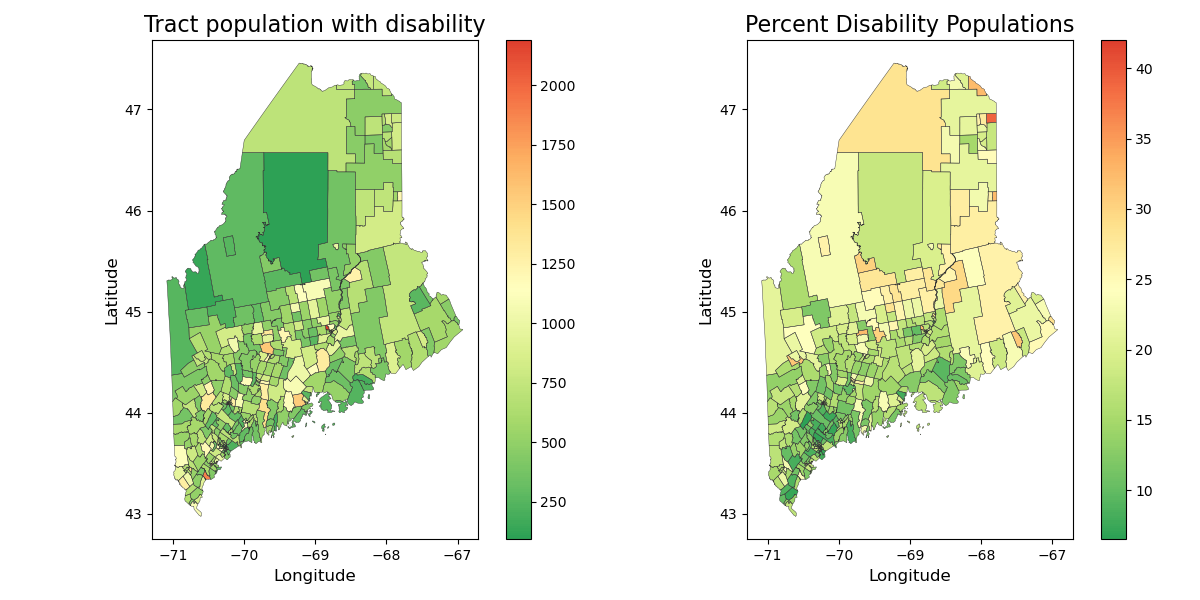
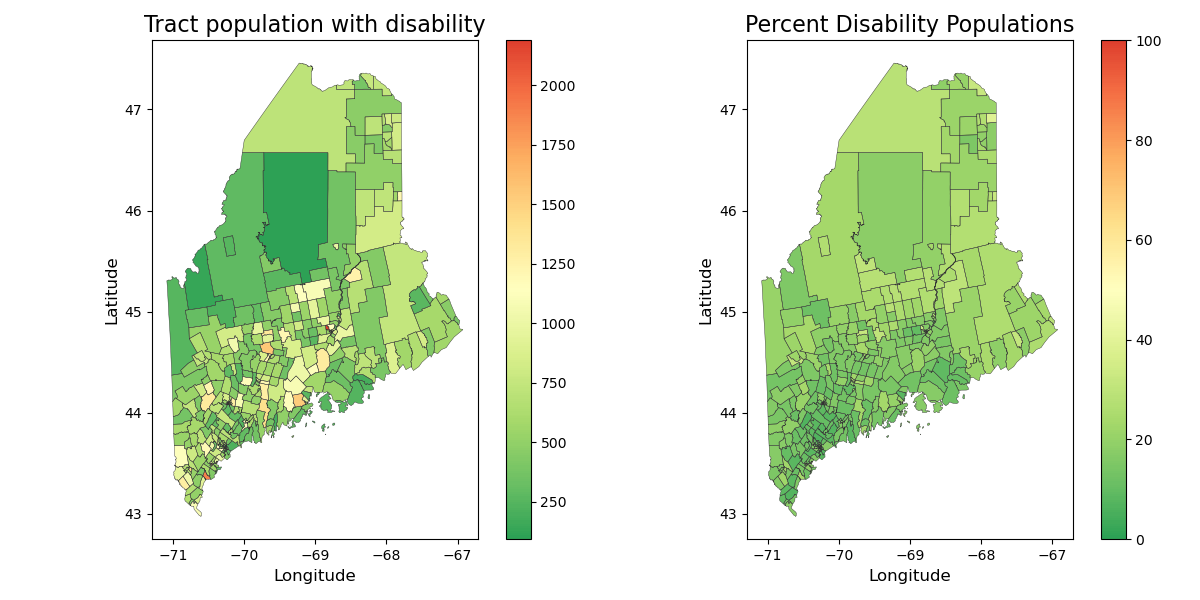
Normalized colorbar for percentage figures

diff --git a/src/make_plots.py b/src/make_plots.py
@@ -41,7 +41,7 @@ def make_plot(gpd_obj, plot_obj):
     ax[0].set_ylabel('Latitude', fontsize=12)
     
     # Right side of fig plot details
-    gpd_obj.plot(column=plot_obj[2], cmap=lighter, legend=True, figsize=(8,8), ax=ax[1])
+    gpd_obj.plot(column=plot_obj[2], cmap=lighter, legend=True, figsize=(8,8), ax=ax[1], vmin=0, vmax=100)
     gpd_obj.boundary.plot(ax=ax[1], linewidth=0.3, edgecolor='#333')
     ax[1].set_title(plot_obj[3], fontsize=16)
     ax[1].set_xlabel('Longitude', fontsize=12)
